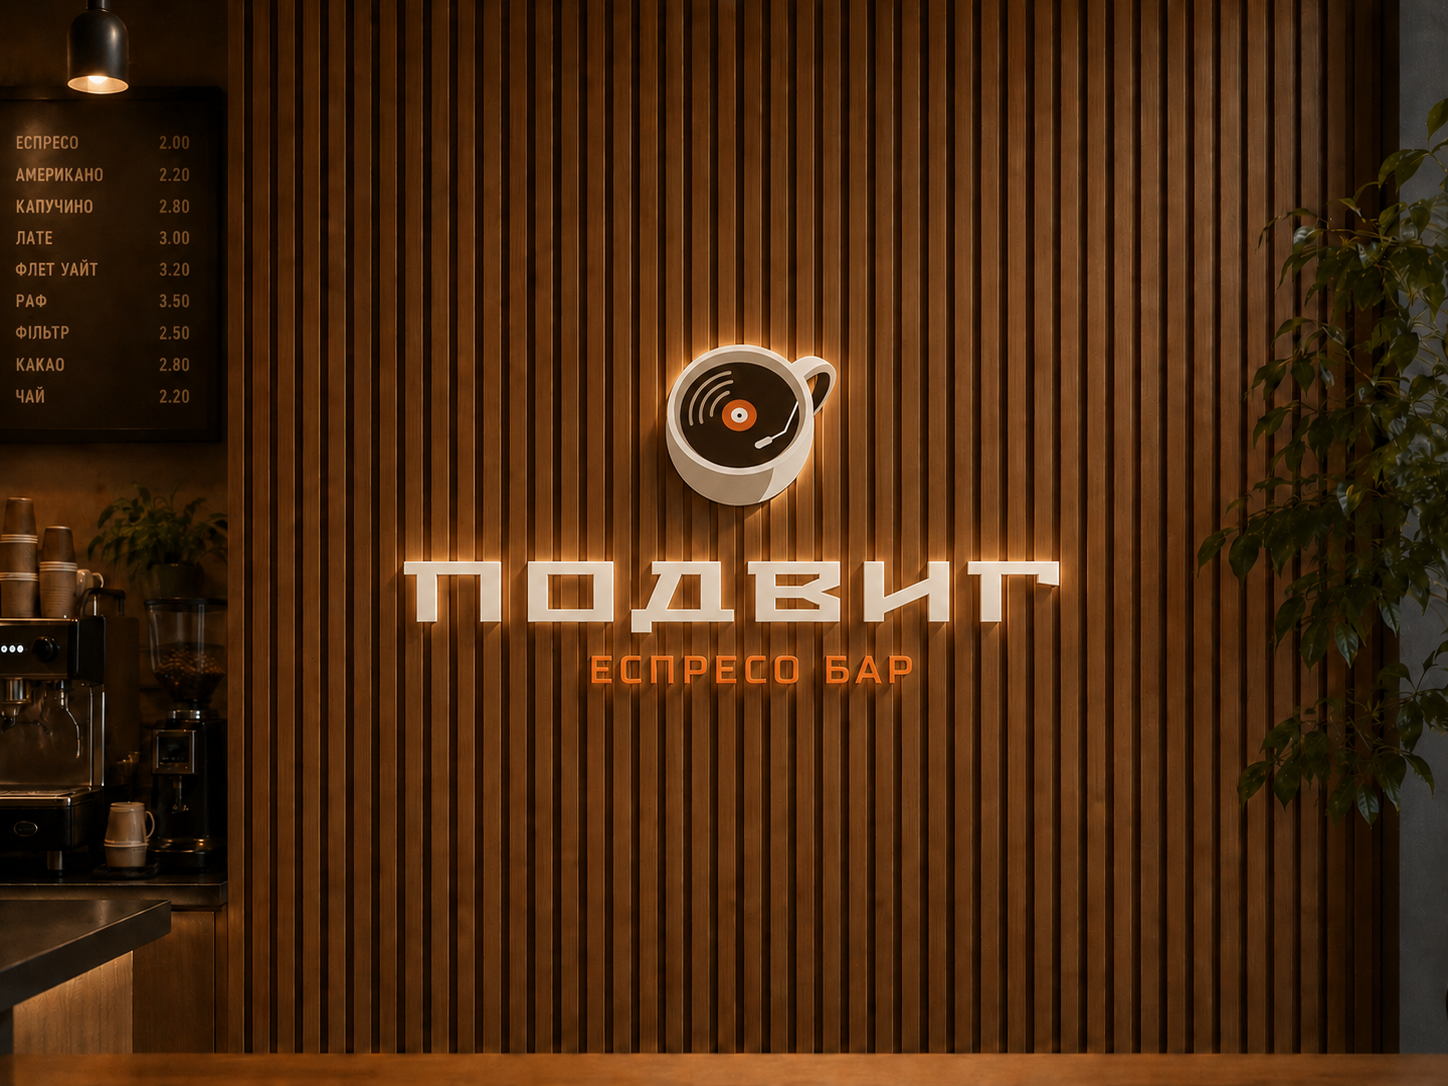
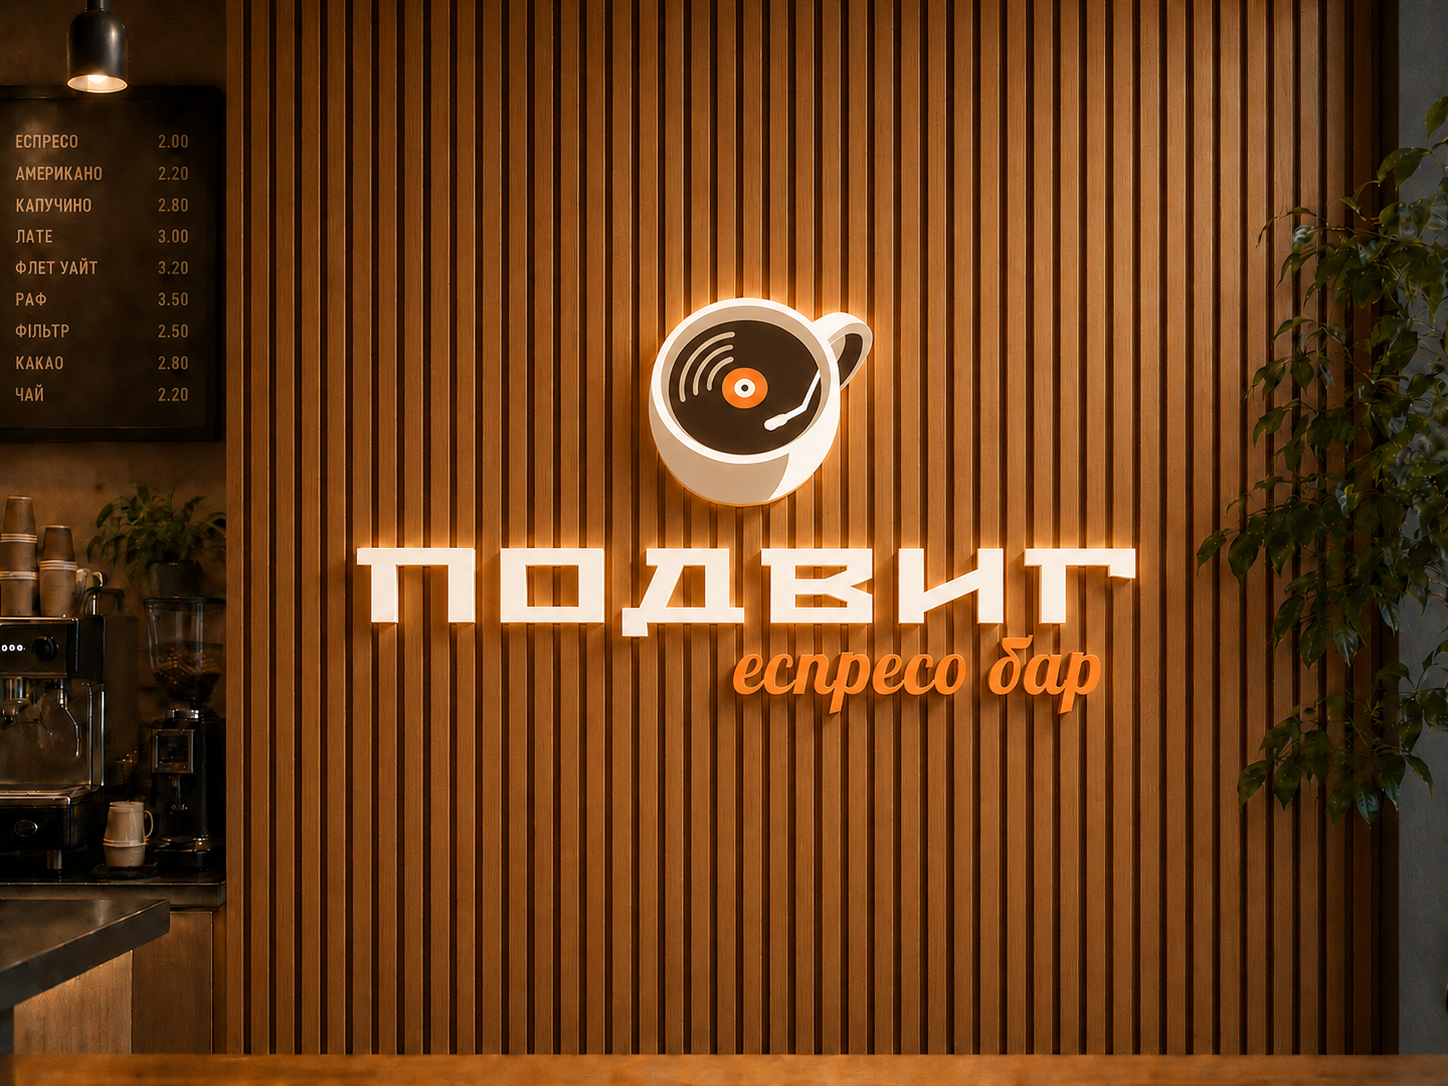
something new

diff --git a/designs/podvig2/index.html b/designs/podvig2/index.html
@@ -43,6 +43,7 @@
     </div>
 
     <img src="[email redacted]" alt="Color0">
+    <img src="light.png" alt="light">
     <img src="[email redacted]" alt="Color0">
     <img src="[email redacted]" alt="Color1">
     <img src="[email redacted]" alt="Color2">
@@ -60,7 +61,6 @@
     <img src="[email redacted]" alt="12">
     <img src="[email redacted]" alt="10a">
     <img src="[email redacted]" alt="10a">
-    <img src="light.png" alt="light">
     <img src="[email redacted]" alt="13">
     <img src="[email redacted]" alt="14">
     <img src="[email redacted]" alt="15">